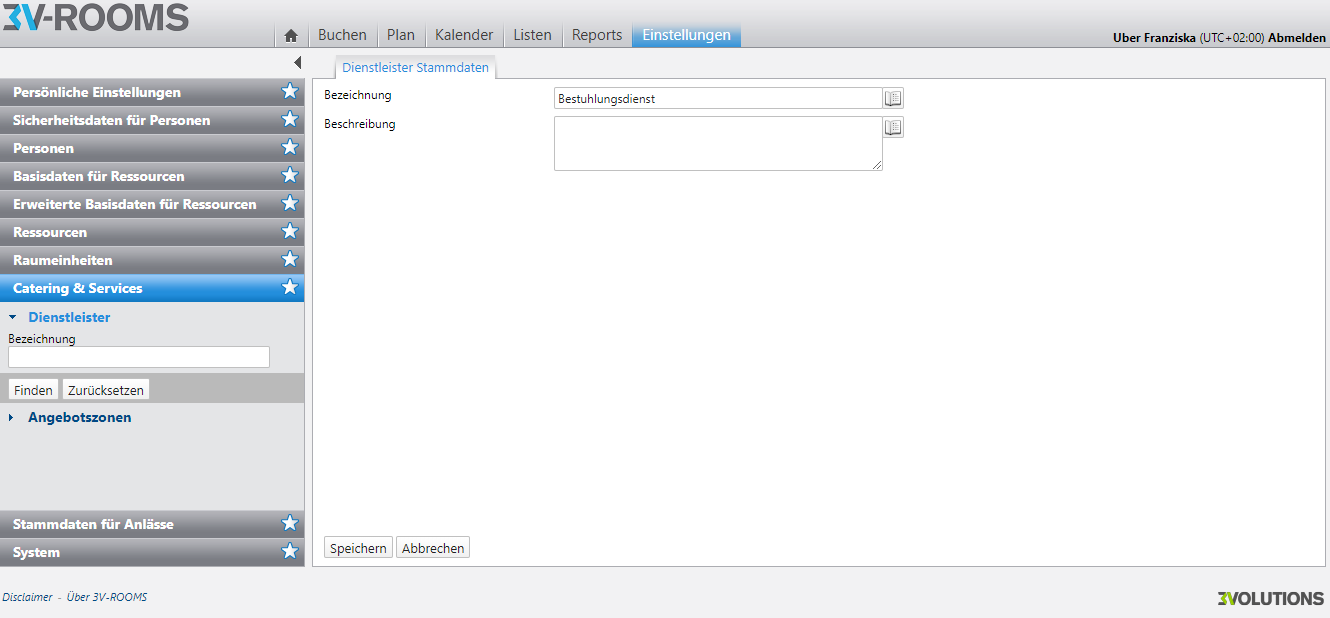
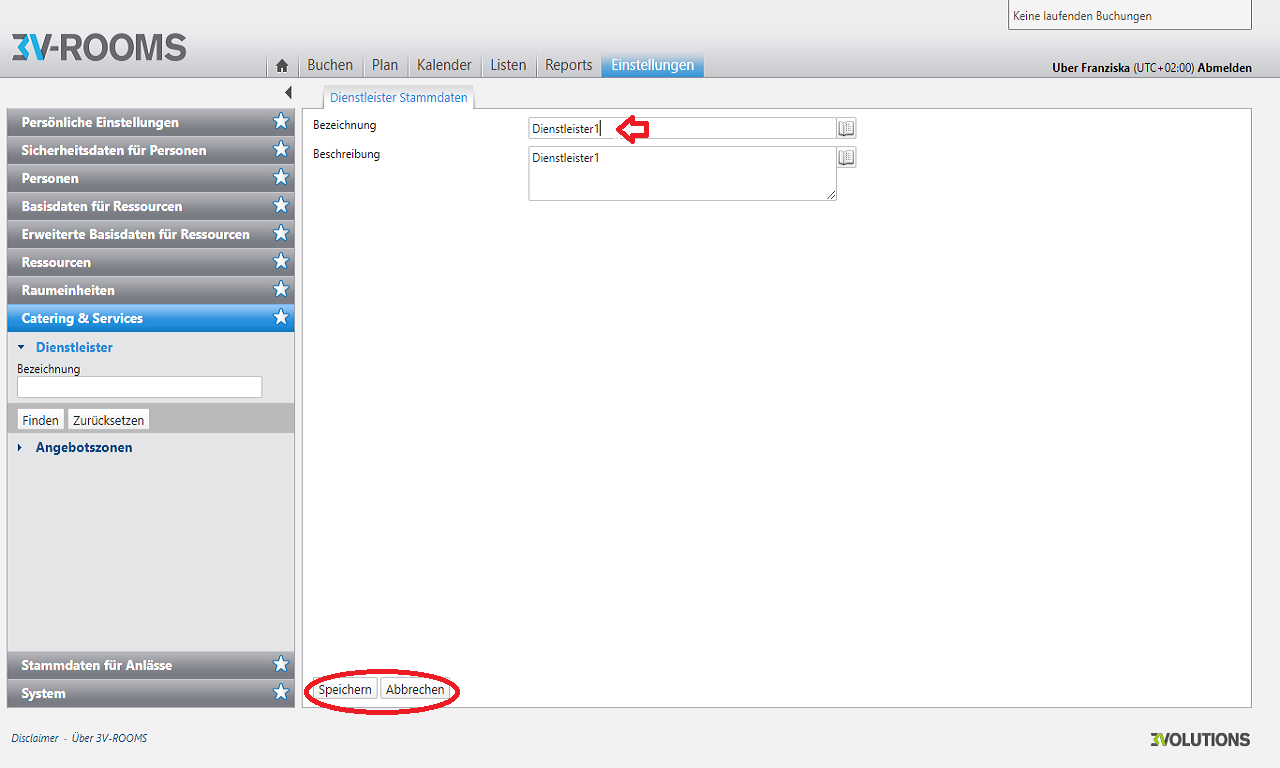
Dienstleister Inhalte ergänzt. Screenshots geändert mit UC abgeglichen

diff --git a/content/de/Einstellungen/CateringServices/Dienstleister/_index.md b/content/de/Einstellungen/CateringServices/Dienstleister/_index.md
@@ -3,18 +3,40 @@ title: "Dienstleister"
 linkTitle: "Dienstleister"
 weight: 1
 description: >
-  Bearbeiten Sie bestehende Dienstleister oder fügen Sie neue hinzu. Die bestehenden Dienstleister sehen Sie in der Liste. 
+  Bearbeiten Sie bestehende Dienstleister und deren Angebote und fügen Sie neue hinzu. Die bestehenden Dienstleister sehen Sie in der Liste. 
 
 
 ---
-## Dienstleister bearbeiten 
-Sie bearbeiten einen bestehenden Dienstleister, indem Sie auf das Stift Icon "Bearbeiten" neben dem Namen des Dienstleister klicken (Abbildung d). In dem Feld, welches sich öffnet, legen Sie die Stammdaten des Dienstleistrs fest (Bezeichnung, Beschreibung) (Abbildung db).
+## Ansicht Dienstleister
+Im linken Sidepanel sehen Sie die Filterfunktionen, mit denen Sie nach Dienstleistern suchen können. 
 
-Die neu eingetragenen Daten speichern Sie über den untenstehenden Button "Speichern" (Abbildung da).
+Im rechten Feld sehen Sie die Dienstleister Liste. Hier finden Sie alle eingespeicherten Dienstleister und deren angebote. (Abbildung d)
 
 {{< imgproc Dienstleister_bearbeiten_suchen Resize "1280x" >}}
 Abbildung d: Dienstleister bearbeiten und suchen
 {{< /imgproc >}}
+
+Über die Aktivierung der Checkbox können Sie Dienstleister aus der Liste entfernen. Dazu klicken Sie auf den untenstehenden Button "Entfernen". Die Liste aktualisiert sich dann automatisch.
+
+### Dienstleister suchen 
+Im linken Sidepanel suchen Sie nach betsimmten Dienstleistern. Hierbei können Sie nach der Bezeichnung des Dienstleisters suchen (Abbildung d). Die Bezeichnung wird in der von Ihnen gespeicherten Sprache angezeigt.
+
+### Dienstleister Daten einsehen
+Die Daten eines bestehenden Dienstleisters sehen Sie ein, indem Sie mit dem Mauszeiger auf den Namen des Dienstleister in der Liste klicken (Abbildung di). Dort sehen Sie die Stammdaten und Historie ein und können diese bearbeiten. 
+
+ 
+{{< imgproc Dienstleister_Daten_einsehen Resize "1280x" >}}
+Abbildung di: Einsehen der Daten eines Dienstleisters
+{{< /imgproc >}}
+
+## Dienstleister bearbeiten 
+Sie bearbeiten einen bestehenden Dienstleister, indem Sie auf das Stift Icon "Bearbeiten" neben dem Namen des Dienstleister klicken (Abbildung d). 
+
+In dem Feld, welches sich öffnet, legen Sie die Stammdaten des Dienstleisters fest (Abbildung db):
+* Bezeichnung
+* Beschreibung
+
+Die neu eingetragenen Daten speichern Sie über den untenstehenden Button "Speichern" (Abbildung db).
 
 {{< imgproc Dienstleister_Stammdaten_bearbeiten Resize "1280x" >}}
 Abbildung db: Stammdaten des Dienstleister bearbeiten
@@ -30,14 +52,101 @@ Die neu eingetragenen Daten speichern Sie über den untenstehenden Button "Speic
 Abbildung da: Festlegen eines neuen Dienstleisters
 {{< /imgproc >}}
 
-## Dienstleister Daten einsehen
-Die Daten eines bestehenden Dienstleisters sehen Sie ein, indem Sie mit dem Mauszeiger auf den Namen des Dienstleister in der Liste klicken (Abbildung di). Dort sehen Sie die Stammdaten und Historie ein und können diese bearbeiten. 
+Die Liste aktualisiert sich automatisch und Sie sehen den neu eingetragenen Dienstleister in der Liste (Abbildung dc).
 
-Beim Betätigen des Button "Angebot einsehen" (Abbildung d), sehen Sie das bestehende Angebot des Dienstleister ein. 
- 
-{{< imgproc Dienstleister_Daten_einsehen Resize "1280x" >}}
-Abbildung di: Einsehen der Daten eines Dienstleisters
+{{< imgproc Dienstleister_neu_in_Liste Resize "1280x" >}}
+Abbildung dc: Aktualisierte Liste mit neuem Dienstleister
 {{< /imgproc >}}
 
-## Dienstleister suchen 
-Im linken Sidepanel suchen Sie nach betsimmten Dienstleistern. Hierbei können Sie nach der Bezeichnung des Dienstleisters suchen (Abbildung d).
+## Angebot bearbeiten und hinzufügen
+Um ein Angebot von einem Dienstleister hinzuzufügen oder zu bearbeiten, klicken Sie auf das EInkaufskorb Icon neben dem Listenelement (Abbildung d).
+
+Sie gelangen dadurch zu einem neuen Feld. In diesem sehen Sie den Angebotsbaum (Abbildung dd). Mit dem Plus oder Minus Zeichen neben den Element erweitern oder verkleinern Sie den Angebotsbaum.
+
+{{< imgproc Dienstleister_Angebot_bearbeiten Resize "1280x" >}}
+Abbildung dd: Angebote der Dienstleister bearbeiten
+{{< /imgproc >}}
+
+Klicken Sie auf ein Element in dem Angebotsbaum, erscheinen neben der Beschriftung Icons. Diese Icons haben folgende Bedeutung: 
+
+| Feld         | Funktion         | 
+| ------------- |-------------  | 
+| Plus Zeichen       | Angebotskategorie hinzufügen. Diese Möglichkeit besteht nur bei einer Hauptkategorie oder einer übergeordneten Angebotskategorie. |
+| Plus Zeichen      | Angebot hinzufügen. Fügen Sie ein neues Angebot hinzu und ordnen Sie es einer Angebotskategorie oder einer Hauptkategorie zu. | 
+| Stift  | Bearbeiten Sie das Angebot.    |  
+| Papierkorb  | Löschen Sie das Angebot über das Icon Papierkorb.     |  
+
+**Hinweis zum Löschen**: Klickt man auf das Löschen Icon, dann erscheint zuerst ein Warnhinweis, welchen man quittieren muss. Kategorien, welche Angebote beinhalten, können nur dann gelöscht werden, wenn keine Abhängigkeiten zwischen Angeboten und Angebotszonen bestehen. Die Löschung erfolgt rekursiv nach unten, insofern keine Abhängigkeiten mehr zu Angebotszonen bestehen (das heisst, nicht mehr in einer Angebotszone verwendet wird)
+Fehlermeldungen, bzw. Regelverletzungen werden im Actionpanel ausgegeben.
+Bestätigungsmeldung wird im Actionpanel ausgegeben
+
+### Neue Angebotskategorie
+Klicken Sie auf das erste Plus Zeichen neben einer Hauptkategorie, erstellen Sie eine übergeordnete Angebotskategorie. Es öffnet sich ein Fenster, in welchem Sie die Stammdaten eingeben (ABbildung dx): 
+
+* Bezeichnung: muss in allen verwendeten Sprachen eingetragen werden
+* Sortierung: Gewichtung der Kategorie im Angebotsbaum
+
+{{< imgproc Angebot_Plus1_hinzufügen Resize "1280x" >}}
+Abbildung dx: Neue Angebotskategorie hinzufügen
+{{< /imgproc >}}
+
+Speichern Sie Ihre Eingabe. Die Liste aktualisiert sich automatisch und Sie sehen die neue Angebotskategorie im Baum (Abbildung dy). Hier können Sie dann untergeordnete Angebote hinzufügen.
+
+ {{< imgproc Angebot_Plus1_neu Resize "1280x" >}}
+Abbildung dy: Angebotskategorie im Angebotsbaum
+{{< /imgproc >}}
+
+### Neues Angebot
+Sie erstellen ein neues Angebot, indem Sie auf das zweite Plus Zeichen klicken. (Abbildung dd)
+In dem sich öffnendem Feld geben Sie die Stammdaten des Angebots ein. 
+
+**Unterscheidung Angebotskategorie und Angebot**:
+
+Sobald einem Angebot, weitere Unterangebote zugeordnet werden, handelt es sich um eine Kategorie. Dabei gibt es nur eine Hierarchiestufe (Erfassung von Subangebot auf einem Angebot möglich, Erfassung von Subangebot auf Subangebot NICHT möglich).
+
+ {{< imgproc Angebot_Plus2_erstellen Resize "1280x" >}}
+Abbildung dz: Neues Angebot hinzufügen
+{{< /imgproc >}}
+
+Speichern Sie Ihre Angaben mit dem Button "Speichern". DIe Liste aktualisiert sich automatisch und Sie sehen Ihr neues Angebot im Baum. (Abbildung dv)
+
+| Feld         | Funktion         | 
+| ------------- |-------------  | 
+| Bezeichnung    | Die Bezeichnung muss mehrsprachig erfasst werden. |
+| Beschreibung| Die Beschreibung muss mehrsprachig erfasst werden. | 
+| Angebotskategorie  | Über den Angebotspicker (Plus Zeichen) kann ein Angebot (oder eine Kategorie) in eine andere Kategorie verschoben werden. Darstellung: Alle Kategorien und alle Angebotspakete.Default: Kategorie, bzw. Angebotspaket auf welchem das Angebot (Paket) erstellt wurde.  |  
+| Vorlaufdauer  | Angabe in Minuten, wieviel vor Buchungsbeginn ein Angebot noch bestellt werden kann. Im Buchungsprozess werden nicht mehr bestellbare Angebote ausgeblendet. Bei der Berechnung wird die Arbeitszeit des Dienstleister mitberücksichtigt. Default: 0 (=keine Vorlaufdauer).    |
+| Nachlaufdauer | Angabe in Minuten, wieviel vor Reservationsbegin ein Angebot noch bestellt werden kann. Im Reservationsprozess werden nicht mehr bestellbare Angebote ausgeblendet. Bei der Berechnung wird die Arbeitszeit des Dienstleisters mitberücksichtigt. Default: 0 (=keine Vorlaufdauer).|
+| Datei-/Verzeichnis-Browser für Bild  | Mittels des „Browse“ Buttons kann nach einem Bild des Angebots im lokalen Filesystem gesucht werden. Klick auf „Upload“.Check ob max. Grösse überschritten (falls ja => Abbruch) das Bild wird in Originalgrösse in die Applikation geladen. Generiert ein Thumbnail zur Vorschau (zugewiesenes Bild). Clear Button löscht das Bild. |
+| Zugewiesenes Bild  | Klick auf das Thumbnail lädt das Bild in Originalgrösse in einem Vorschaufenster (popup). |
+| Offene Menge  | Erlaubt dem Nutzer Selektion der Dienstleistung ohne Angabe einer Menge. Anmerkung: Kosten bei offener Menge werden im Reservationsprozess nicht berechnet. |
+| Überschreibbar   |  Erlaubt dem Benutzer während des Bestellprozesses nach Selektion des Angebots dieses zu editieren. Editert werden können Kosten und Angebotstext ändern. |
+| Artikel-Nr  | Alphanummerischen Eingabe von Artikelnummern möglich      |
+| Währung  | alle aktivierten Währungen. Standardwert = Währung der im Profil des angemeldeten gewählten Kultur die Anzahl der aktiviert Währungen ist abhängig von der Anzahl der zur Verfügung gestellten Kulturen. |
+| Kosten  |  Standardwert: leer (keine Kosten)    |
+| Annulierungskosten  | Standardwert = leer (keine Annullationskosten). Wert > 0 entspricht dem Wert, welcher bei einer Annullation Pauschal erhoben wird .|
+| Annulierung vor Beginn (Minuten)  | Definiert ab wieviele Minuten vor Reservationsbegin Annullationskosten erhoben werden. 0 = Annullationskosten werden zur Laufzeit erhoben. Standardwert = leer (ausgeschalten).Beispiel: Bei einem Wert von 60, wird bis 60 Minuten vor Reservationsstart KEINE Annullationskosten erhoben. Zwischen 60 Minuten und der Endzeit der Reservation wird der Pauschalbetrag, welcher unter "Annullationskosten" definiert wurde in Rechung gestellt.|
+| Sortierung  |  Validierung auf nummerischen Wert. Gibt Sortierung im Baum auf gleicher hierarchischen Stufe vor Definiert auch die Standardsortierung im Buchungsprozess.   |
+
+
+ {{< imgproc Angebot_Plus2_neu Resize "1280x" >}}
+Abbildung dv: Neues Angebot im Angebotsbaum
+{{< /imgproc >}}
+
+
+### Neue Hauptkategorie 
+Eine neue Hauptkategorie erstellen Sie über den untenstehenden gleichnamigen Button. Es öffnet sich ein Feld in welchem Sie die Stammdaten des Angebots eingeben: 
+
+* Bezeichnung: muss in allen verwendeten Sprachen eingetragen werden
+* Sortierung: Gewichtung der Kategorie im Angebotsbaum
+
+ {{< imgproc Angebot_neue_Hauptkategorie Resize "1280x" >}}
+Abbildung df: Neue Hauptkategorie hinzufügen
+{{< /imgproc >}}
+
+Speichern Sie die neue Hauptkategorie über den Button "Speichern". Die Liste aktualisiert sich automatisch und Sie sehen die Kategorie im Angebotsbaum. 
+
+{{< imgproc Angebot_Hauptkategorie_in_tree Resize "1280x" >}}
+Abbildung dg: Neue Hauptkategorie im Angebotsbaum
+{{< /imgproc >}}
+
